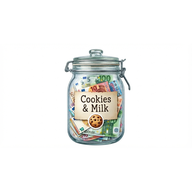
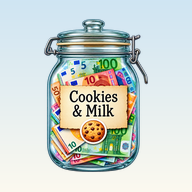
Add files via upload

diff --git a/index.html b/index.html
@@ -20,7 +20,7 @@ html,body{height:100%;margin:0}*{box-sizing:border-box}
 body{background:var(--bg);color:var(--ink);font-family:system-ui,-apple-system,"Segoe UI",Roboto,sans-serif;display:flex;justify-content:center}
 .app{width:100%;max-width:430px;height:100%;display:flex;flex-direction:column;position:relative;overflow:hidden}
 header{display:flex;align-items:center;gap:10px;padding:10px 14px}
-header img{width:40px;height:40px;border-radius:12px;cursor:pointer}
+header img{width:auto;height:44px;cursor:pointer;filter:drop-shadow(0 2px 3px #0002)}
 header b{font-size:19px;font-weight:800}
 main{flex:1;overflow-y:auto;padding:6px 18px 130px}
 h1{font-size:26px;margin:6px 0 14px;font-weight:800}
@@ -130,8 +130,68 @@ textarea{width:100%;min-height:130px;font:500 13px ui-monospace,Menlo,monospace;
 .fl{display:block;margin-top:8px;font-size:14px}.sm{font-size:12px;opacity:.7;margin:6px 2px}
 .cols{display:flex;flex-wrap:wrap;gap:6px;margin:6px 0}.cols span{background:var(--sky);border-radius:10px;padding:5px 9px;font-size:12px;font-weight:700}
 .sec{background:var(--sky);color:var(--ink)}
-</style></head><body><div class="app">
-<header><button class="gear" id="gear" aria-label="Ajustes">⚙<span class="sync" id="sync" data-s="loading"></span></button><img id="logo" src="icon-192.png" alt="Cookies & Milk"><b>Cookies & Milk 💰</b></header>
+
+
+#splash{position:fixed;inset:0;z-index:6000;display:flex;flex-direction:column;align-items:center;justify-content:center;background:linear-gradient(#CFE5F3,#FCF9EF 78%);transition:opacity .45s;overflow:hidden;cursor:pointer}
+#splash.out{opacity:0;pointer-events:none}
+#splash svg{width:min(100vw,520px);height:auto;overflow:visible;animation:sppop .6s cubic-bezier(.2,1.4,.4,1) both}
+#splash .t{font:800 26px system-ui,sans-serif;color:#3C4B58;margin-top:4px;animation:spin .8s .3s both}
+#splash small{font:600 12px system-ui,sans-serif;color:#6b7c88;margin-top:6px;opacity:.7}
+@keyframes sppop{from{opacity:0;transform:scale(.85)}to{opacity:1;transform:none}}
+@keyframes spin{from{opacity:0;transform:translateY(8px)}to{opacity:1;transform:none}}
+#splash svg *{animation-duration:6.6s;animation-timing-function:ease-in-out;animation-fill-mode:both;animation-iteration-count:1}
+.lidc{animation-name:lidc}
+@keyframes lidc{0%,8%{transform:translate(0,0) rotate(0)}20%{transform:translate(0,-260px) rotate(0)}34%{transform:translate(-330px,-340px) rotate(-14deg)}50%{transform:translate(-330px,-350px) rotate(-17deg)}64%{transform:translate(-330px,-340px) rotate(-14deg)}76%{transform:translate(-90px,-300px) rotate(-5deg)}82%{transform:translate(0,-70px) rotate(0)}85%{transform:translate(0,0) rotate(0)}87%{transform:translate(0,6px)}89%,100%{transform:translate(0,0)}}
+.lha{animation-name:lha}
+@keyframes lha{0%{transform:translate(0,1800px)}8%,84%{transform:translate(0,0)}96%,100%{transform:translate(0,1800px)}}
+.lfist{animation-name:lfist}.lopen{animation-name:lopen}
+@keyframes lfist{0%,84.9%{opacity:1}85%,100%{opacity:0}}
+@keyframes lopen{0%,84.9%{opacity:0}85%,100%{opacity:1}}
+.rh{animation-name:rh;transform:translate(1619px,1959px) rotate(-22deg)}
+@keyframes rh{0%{transform:translate(1619px,1959px) rotate(-22deg)}8%{transform:translate(944px,290px) rotate(-22deg)}20%{transform:translate(944px,30px) rotate(-22deg)}25%{transform:translate(1130px,-70px) rotate(-35deg)}35%{transform:translate(694px,-170px) rotate(215deg)}44%,46%{transform:translate(694px,232px) rotate(215deg)}58%{transform:translate(694px,-328px) rotate(215deg)}61%{transform:translate(694px,-343px) rotate(215deg)}64%{transform:translate(694px,-328px) rotate(215deg)}80%,100%{transform:translate(1594px,-2328px) rotate(215deg)}}
+.rfist{animation-name:rfist}.ropen{animation-name:ropen}
+@keyframes rfist{0%,21.9%{opacity:1}22%,44.9%{opacity:0}45%,100%{opacity:1}}
+@keyframes ropen{0%,21.9%{opacity:0}22%,44.9%{opacity:1}45%,100%{opacity:0}}
+.bill{animation-name:bill}
+@keyframes bill{0%,46%{transform:translate(0,0)}58%{transform:translate(0,-560px)}61%{transform:translate(0,-575px)}64%{transform:translate(0,-560px)}80%,100%{transform:translate(900px,-2560px)}}
+.spk{animation-name:spk;transform:scale(0)}
+@keyframes spk{0%,86%{transform:scale(0) rotate(0)}91%{transform:scale(1) rotate(40deg)}97%,100%{transform:scale(0) rotate(90deg)}}
+@media (prefers-reduced-motion:reduce){#splash svg *{animation:none!important}}
+
+.yb{width:100%;margin-top:10px;border:0;border-radius:16px;background:var(--sun,#FFE49A);color:var(--ink);font:700 15px system-ui;padding:12px;cursor:pointer}
+@keyframes slR{from{transform:translateX(38px);opacity:.2}to{transform:none;opacity:1}}@keyframes slL{from{transform:translateX(-38px);opacity:.2}to{transform:none;opacity:1}}
+</style></head><body><div id="splash" aria-label="Cargando Cookies &amp; Milk"><svg viewBox="-140 -640 1534 1894" xmlns="http://www.w3.org/2000/svg" role="img">
+<defs>
+<linearGradient id="skin" x1="0" y1="0" x2="1" y2="1"><stop offset="0" stop-color="#FFE0C4"/><stop offset="1" stop-color="#F7B994"/></linearGradient>
+<linearGradient id="slv" x1="0" y1="0" x2="1" y2="0"><stop offset="0" stop-color="#B5D8EE"/><stop offset="1" stop-color="#7FB1D3"/></linearGradient>
+<linearGradient id="bg" x1="0" y1="0" x2="1" y2="1"><stop offset="0" stop-color="#C8EBB9"/><stop offset="1" stop-color="#86C98A"/></linearGradient>
+<clipPath id="slot"><rect x="-1000" y="-3000" width="4000" height="3345"/></clipPath>
+<g id="HO"><g stroke-linecap="round" fill="none"><path d="M-72 -40 Q-130 -70 -140 -140" stroke="#E39A74" stroke-width="62"/><path d="M-72 -40 Q-130 -70 -140 -140" stroke="url(#skin)" stroke-width="50"/><path d="M-66 -120 L-74 -215" stroke="#E39A74" stroke-width="54"/><path d="M-22 -120 L-24 -242" stroke="#E39A74" stroke-width="54"/><path d="M22 -120 L26 -232" stroke="#E39A74" stroke-width="54"/><path d="M66 -120 L76 -206" stroke="#E39A74" stroke-width="54"/><path d="M-66 -120 L-74 -215" stroke="url(#skin)" stroke-width="42"/><path d="M-22 -120 L-24 -242" stroke="url(#skin)" stroke-width="42"/><path d="M22 -120 L26 -232" stroke="url(#skin)" stroke-width="42"/><path d="M66 -120 L76 -206" stroke="url(#skin)" stroke-width="42"/></g><rect x="-92" y="-195" width="184" height="222" rx="72" fill="url(#skin)" stroke="#E39A74" stroke-width="6"/><ellipse cx="-34" cy="-130" rx="30" ry="46" fill="#fff" opacity=".28"/><ellipse cx="-66" cy="-232" rx="9" ry="16" fill="#fff" opacity=".4"/><ellipse cx="-22" cy="-250" rx="9" ry="16" fill="#fff" opacity=".4"/><rect x="-80" y="18" width="160" height="2000" fill="url(#slv)"/><path d="M-50 100 L-50 2000 M26 100 L26 2000" stroke="#fff" stroke-opacity=".18" stroke-width="12"/><rect x="-92" y="-4" width="184" height="66" rx="24" fill="#FFF3D6" stroke="#E5D3A0" stroke-width="5"/></g><g id="HF"><rect x="-94" y="-218" width="188" height="246" rx="80" fill="url(#skin)" stroke="#E39A74" stroke-width="6"/><g stroke="#E39A74" stroke-width="6" stroke-linecap="round" fill="none"><path d="M-47 -205 L-47 -140"/><path d="M0 -212 L0 -138"/><path d="M47 -205 L47 -140"/></g><ellipse cx="-68" cy="-182" rx="12" ry="18" fill="#fff" opacity=".38"/><ellipse cx="-22" cy="-190" rx="12" ry="18" fill="#fff" opacity=".38"/><ellipse cx="26" cy="-190" rx="12" ry="18" fill="#fff" opacity=".3"/><path d="M-76 -62 Q-30 -125 38 -108" fill="none" stroke="#E39A74" stroke-width="62" stroke-linecap="round"/><path d="M-76 -62 Q-30 -125 38 -108" fill="none" stroke="url(#skin)" stroke-width="50" stroke-linecap="round"/><ellipse cx="-30" cy="-98" rx="14" ry="8" fill="#fff" opacity=".4"/><rect x="-80" y="18" width="160" height="2000" fill="url(#slv)"/><path d="M-50 100 L-50 2000 M26 100 L26 2000" stroke="#fff" stroke-opacity=".18" stroke-width="12"/><rect x="-92" y="-4" width="184" height="66" rx="24" fill="#FFF3D6" stroke="#E5D3A0" stroke-width="5"/></g>
+
+</defs>
+<ellipse cx="627" cy="1235" rx="330" ry="34" fill="#3C4B58" opacity=".12"/>
+<image href="jar-body.webp" x="0" y="0" width="1254" height="1254"/>
+<g clip-path="url(#slot)"><g class="bill">
+ <rect x="530" y="345" width="190" height="400" rx="14" fill="url(#bg)" stroke="#5FA867" stroke-width="7"/>
+ <rect x="546" y="361" width="158" height="368" rx="8" fill="none" stroke="#fff" stroke-opacity=".7" stroke-width="4"/>
+ <circle cx="625" cy="470" r="46" fill="#fff" fill-opacity=".55" stroke="#5FA867" stroke-width="5"/>
+ <text x="625" y="488" text-anchor="middle" font-family="system-ui,sans-serif" font-weight="800" font-size="56" fill="#3F8A4C">€</text>
+ <text x="625" y="620" text-anchor="middle" font-family="system-ui,sans-serif" font-weight="800" font-size="76" fill="#3F8A4C">20</text>
+ <path d="M560 680 H690 M560 700 H690" stroke="#5FA867" stroke-width="6" stroke-linecap="round"/>
+</g></g>
+<g transform="translate(625 112)"><g class="lidc"><g transform="translate(-625 -112)">
+ <image href="jar-lid.webp" x="322" y="0" width="606" height="224"/>
+ <g transform="translate(310 290) rotate(22)"><g class="lha"><g class="lfist"><use href="#HF"/></g><g class="lopen"><use href="#HO"/></g></g></g>
+</g></g></g>
+<g class="rh"><g transform="scale(-1 1)"><g class="rfist"><use href="#HF"/></g><g class="ropen"><use href="#HO"/></g></g></g>
+<g transform="translate(300 360)"><path class="spk" style="animation-delay:0s" d="M0 -46 Q7 -7 46 0 Q7 7 0 46 Q-7 7 -46 0 Q-7 -7 0 -46Z" fill="#FFD84D" stroke="#fff" stroke-width="5"/></g>
+<g transform="translate(960 300) scale(.7)"><path class="spk" style="animation-delay:.12s" d="M0 -46 Q7 -7 46 0 Q7 7 0 46 Q-7 7 -46 0 Q-7 -7 0 -46Z" fill="#FFD84D" stroke="#fff" stroke-width="5"/></g>
+<g transform="translate(1010 760) scale(.55)"><path class="spk" style="animation-delay:.2s" d="M0 -46 Q7 -7 46 0 Q7 7 0 46 Q-7 7 -46 0 Q-7 -7 0 -46Z" fill="#FFD84D" stroke="#fff" stroke-width="5"/></g>
+<g transform="translate(260 800) scale(.5)"><path class="spk" style="animation-delay:.08s" d="M0 -46 Q7 -7 46 0 Q7 7 0 46 Q-7 7 -46 0 Q-7 -7 0 -46Z" fill="#FFD84D" stroke="#fff" stroke-width="5"/></g>
+</svg><div class="t">Cookies &amp; Milk 💰</div><small>Toca para saltar</small></div>
+<script>(function(){var sp=document.getElementById('splash');if(!sp)return;var g=0;function hide(){if(g)return;g=1;sp.classList.add('out');setTimeout(function(){sp.remove()},500)}
+sp.addEventListener('click',hide);var l=sp.querySelector('.lidc');l&&l.addEventListener('animationend',function(){setTimeout(hide,800)});setTimeout(hide,8600);if(window.matchMedia&&matchMedia('(prefers-reduced-motion:reduce)').matches)setTimeout(hide,900)})();</script><div class="app">
+<header><button class="gear" id="gear" aria-label="Ajustes">⚙<span class="sync" id="sync" data-s="loading"></span></button><img id="logo" src="jar-sm.png" alt="Cookies & Milk"><b>Cookies & Milk 💰</b></header>
 <main id="main"></main>
 <nav id="nav"></nav>
 <div class="sheet" id="sheet"><div>
@@ -140,7 +200,7 @@ textarea{width:100%;min-height:130px;font:500 13px ui-monospace,Menlo,monospace;
 <button data-k="viajes" style="background:#63B5C6">✈ Viajes</button></div></div>
 <div class="flow" id="flow"><div class="flagbg" id="fbg"></div><div class="ov" id="fov"></div><div class="fw" id="fw"></div></div><div class="toast" id="toast"></div>
 <div class="flow" id="setov"><div class="fw" id="setw"></div></div>
-<div class="login" id="login"><form id="lf"><img src="icon-192.png" alt=""><h2>Cookies &amp; Milk 💰</h2><input id="lem" type="email" name="email" autocomplete="username" placeholder="Correo electrónico" required><input id="lpw" type="password" name="password" autocomplete="current-password" placeholder="Contraseña" required><div class="err" id="lerr"></div><button class="save" type="submit" id="lbtn">ENTRAR</button></form></div>
+<div class="login" id="login"><form id="lf"><img src="jar-sm.png" alt=""><h2>Cookies &amp; Milk 💰</h2><input id="lem" type="email" name="email" autocomplete="username" placeholder="Correo electrónico" required><input id="lpw" type="password" name="password" autocomplete="current-password" placeholder="Contraseña" required><div class="err" id="lerr"></div><button class="save" type="submit" id="lbtn">ENTRAR</button></form></div>
 </div>
 <script>
 const $=s=>document.querySelector(s);
@@ -208,8 +268,8 @@ function accDash(a,y,emb){const col=a==='Naranja'?COL.N:COL.R,tot=accT(a,y),ms=A
  donut(cs.map((c,i)=>({n:c.e+' '+c.n,sh:ct?Math.round(c.v/ct*100)+'% del total':'',v:c.v,c:PAL[i],b:c.n==='Viajes'?'<small class="bd" style="opacity:.5">—</small>':badge(yAvg(a,c.n,y),hAvg(a,c.n)),attr:`data-p="cat" data-acc="${a}" data-y="${y}" data-c="${c.n}"`})))+
  `<h3>Media histórica</h3><div class="st"><div><small>Media mensual</small><b>${fmt0(av)}</b></div><div><small>Mes más caro</small><b>${fmt0(hv[imx])}</b><small>${lb(past[imx])}</small></div><div><small>Mes más barato</small><b>${fmt0(hv[imn])}</b><small>${lb(past[imn])}</small></div></div><h3>Tendencia</h3>`+trend(vals,av,col,lb(all[0]),lb(all[all.length-1]))+
  `<h3>Balance de ${y}</h3><div class="det"><div><small>Ingresos (fijos + extra)</small><b>${fmt0(inc)}</b></div><div><small>Gastos</small><b>${fmt0(tot)}</b></div><div><small>Balance</small>${balC(inc-tot)}</div></div><h3>Últimos gastos</h3>`+list([...cas(a,y),...trp(a,y)],10)}
-function accMonth(a,y,mo){const g=accT(a,y,mo),ex=exs(a,y,mo),xt=sum(ex),inc=INC[a]+xt,cs=cats(a,y,mo);
- return `<h1>${a==='Naranja'?'🟠':'⚫'} ${a} · ${months[mo-1]} ${y}</h1><div class="st"><div><small>Gastos del mes</small><b>${fmt0(g)}</b></div><div><small>Ingresos mensuales</small><b>${fmt0(INC[a])}</b></div><button data-xa="${a}" data-y="${y}" data-mo="${mo}"><small>Ingresos extra ＋</small><b>${fmt0(xt)}</b></button></div><div class="det" style="margin-top:8px"><div><small>Balance del mes</small>${balC(inc-g)}</div></div>`+
+function accMonth(a,y,mo,sh){const g=accT(a,y,mo),ex=exs(a,y,mo),xt=sum(ex),inc=INC[a]+xt,cs=cats(a,y,mo);
+ return `<h1>${a==='Naranja'?'🟠':'⚫'} ${sh?'Gastos '+a:a+' · '+months[mo-1]+' '+y}</h1><div class="st"><div><small>Gastos del mes</small><b>${fmt0(g)}</b></div><div><small>Ingresos mensuales</small><b>${fmt0(INC[a])}</b></div><button data-xa="${a}" data-y="${y}" data-mo="${mo}"><small>Ingresos extra ＋</small><b>${fmt0(xt)}</b></button></div><div class="det" style="margin-top:8px"><div><small>Balance del mes</small>${balC(inc-g)}</div></div>`+
  (ex.length?`<h3>Ingresos extra</h3>`+ex.map(x=>`<div class="ex" style="cursor:default"><span class="ec">${x.obs||'Ingreso extra'}</span><b>${fmt(x.amt)}</b></div>`).join(''):'')+
  `<h3>Categorías</h3><p class="hint">% frente a ${months[mo-1]} de ${y-1}</p>`+donut(cs.map((c,i)=>({n:c.e+' '+c.n,v:c.v,c:PAL[i],b:c.n==='Viajes'?'<small class="bd" style="opacity:.5">—</small>':badge(c.v,cm(a,c.n,y-1,mo)),attr:`data-p="cat" data-acc="${a}" data-y="${y}" data-c="${c.n}"`})))+`<h3>Gastos del mes</h3>`+list([...cas(a,y,mo),...trp(a,y,mo)])}
 function catScr(a,y,c){const x=c==='Viajes'?trp(a,y):cas(a,y).filter(e=>e.cat===c);
@@ -270,24 +330,28 @@ function viaMonth(y,mo){const x=trp(null,y,mo),ids=[...new Set(x.map(e=>e.trip))
 function tripScr(id){const t=trips.find(t=>t.id===id),x=E.filter(e=>e.trip===id);
  return `<h1 style="display:flex;align-items:center;gap:10px">${fl(t.iso)}${t.place}</h1><p class="hint" style="margin-top:-6px">${rng(t)} ${t.from.slice(0,4)} · ${t.country}</p><div class="st"><div><small>Total del viaje</small><b>${fmt0(sum(x))}</b></div><div style="grid-column:span 2"><small>Repercute en Casa</small><b>${fmt0(sum(x.filter(e=>e.to==='Naranja'||e.to==='Revolut')))}</b></div></div><h3>Por categoría</h3>`+donut(tcats(x))+`<h3>¿De dónde salió el dinero?</h3>`+donut([['🟠 Naranja',COL.N],['⚫ Revolut',COL.R],['👩 Alba','#E9A0A0'],['👨 David','#8FBEDC']].map(([n,c])=>({n,c,v:sum(x.filter(e=>e.to===n.slice(3)))})))+`<h3>Gastos del viaje</h3>`+x.sort((a,b)=>key(a).localeCompare(key(b))).map(row).join('')}
 const tot=()=>{const{y,m}=HM,n=accT('Naranja',y,m),r=accT('Revolut',y,m);return{n,r,v:sum(trp(null,y,m)),casa:n+r}};
+const AVM={1:'m',3:'m'};
+function mhead(yb){const cur=HM.y===NY&&HM.m===NM;
+ return `<div class="mh"><button data-hm="-1" aria-label="Mes anterior">‹</button><button class="mt" data-hm="open">${months[HM.m-1]} ${HM.y} ▾</button><button data-hm="1" aria-label="Mes siguiente">›</button></div>${cur?'':'<button class="cur" data-hm="now">Volver al mes actual</button>'}`+(HM.open?`<div class="mp"><div class="ys"><button data-hm="py-">‹</button><b>${HM.py}</b><button data-hm="py+">›</button></div><div class="mg">${MN.map((n,i)=>`<button class="${HM.py===HM.y&&i+1===HM.m?'on':''}" data-hm="pick" data-mo="${i+1}">${n}</button>`).join('')}</div>${yb?'<button class="yb" data-av="y">📅 Ver el año completo</button>':''}</div>`:'')}
 function home(m){const T=tot(),cur=HM.y===NY&&HM.m===NM;
  m.innerHTML=banner()+`<div class="mh"><button data-hm="-1" aria-label="Mes anterior">‹</button><button class="mt" data-hm="open">${months[HM.m-1]} ${HM.y} ▾</button><button data-hm="1" aria-label="Mes siguiente">›</button></div>${cur?'':'<button class="cur" data-hm="now">Volver al mes actual</button>'}`+(HM.open?`<div class="mp"><div class="ys"><button data-hm="py-">‹</button><b>${HM.py}</b><button data-hm="py+">›</button></div><div class="mg">${MN.map((n,i)=>`<button class="${HM.py===HM.y&&i+1===HM.m?'on':''}" data-hm="pick" data-mo="${i+1}">${n}</button>`).join('')}</div></div>`:'')+
  `<div class="total"><span>Total Casa</span><b>${fmt(T.casa)}</b></div>`+posTile('Naranja','#FF8A2B','var(--orbg)',1,fmt(T.n))+posTile('Revolut','#212327','var(--sky)',3,fmt(T.r))+`<div class="tile travel" data-go="4"><div><h2>Viajes</h2>${fmt(T.v)}</div><canvas id="g1" width="340" height="340" style="width:170px;height:170px"></canvas></div>`;
  start($('#g1'))}
 function render(){raf.forEach(cancelAnimationFrame);raf=[];const m=$('#main');
  if(tab===0)home(m);else{const s=topS();let h;
-  switch(s.n){case 'accyear':h=accDash(s.acc,s.y,1);break;case 'viayear':h=viaMain(s.y,1);break;case 'month':h=resMonth(s.y,s.mo);break;case 'accmonth':h=accMonth(s.acc,s.y,s.mo);break;case 'cat':h=catScr(s.acc,s.y,s.cat);break;case 'viamonth':h=viaMonth(s.y,s.mo);break;case 'trip':h=tripScr(s.id);break;default:h=tab===5?resMain(YR[5]):tab===4?viaMain(YR[4]):accDash(ACC[tab],YR[tab])}
+  switch(s.n){case 'accyear':h=accDash(s.acc,s.y,1);break;case 'viayear':h=viaMain(s.y,1);break;case 'month':h=resMonth(s.y,s.mo);break;case 'accmonth':h=accMonth(s.acc,s.y,s.mo);break;case 'cat':h=catScr(s.acc,s.y,s.cat);break;case 'viamonth':h=viaMonth(s.y,s.mo);break;case 'trip':h=tripScr(s.id);break;default:h=tab===5?resMain(YR[5]):tab===4?viaMain(YR[4]):AVM[tab]==='m'?mhead(1)+accMonth(ACC[tab],HM.y,HM.m,1):'<button class="bk" data-av="m">‹ Ver por meses</button>'+accDash(ACC[tab],YR[tab])}
   m.innerHTML=(ST[tab].length?'<button class="bk" data-bk>‹ Atrás</button>':'')+h;m.scrollTop=0;if($('#wm')||$('#lm'))initMap()}
  $('#nav').innerHTML=NAV.map(x=>x?`<button data-t="${x[0]}" class="${x[0]===tab?'on':''}"><span class="ic">${ICONS[x[0]===5?0:x[0]]}</span>${x[1]}</button>`:`<div class="gap"><button class="fab" id="fab" aria-label="Añadir gasto">${PLUS}</button></div>`).join('');
- $('#nav').querySelectorAll('button[data-t]').forEach(b=>b.onclick=()=>{const t=+b.dataset.t;if(t===tab)ST[t]=[];tab=t;render()});
+ $('#nav').querySelectorAll('button[data-t]').forEach(b=>b.onclick=()=>{const t=+b.dataset.t;if(t===tab)ST[t]=[];tab=t;HM.open=false;render()});
  $('#fab').onclick=()=>CAN?$('#sheet').classList.add('show'):toast('Solo lectura')}
 function tap(t){if(t.classList.contains('go'))return;const i=+t.dataset.go;
- const nav=()=>{YR[i]=HM.y;ST[i]=i===4?[{n:'viamonth',y:HM.y,mo:HM.m}]:[{n:'accmonth',acc:ACC[i],y:HM.y,mo:HM.m}];tab=i;render()};
+ const nav=()=>{YR[i]=HM.y;if(AVM[i])AVM[i]='m';HM.open=false;ST[i]=i===4?[{n:'viamonth',y:HM.y,mo:HM.m}]:[];tab=i;render()};
  if(!t.querySelector('.pos'))return nav();
  const s=t.querySelector('.scr');if(navigator.vibrate)navigator.vibrate(15);t.classList.add('go');
  setTimeout(()=>{s.textContent='✓ Aceptado';s.classList.add('ok')},560);setTimeout(nav,1250)}
-$('#main').onclick=e=>{const t=e.target.closest('[data-hm],[data-yr],[data-p],[data-bk],[data-ex],[data-go],[data-xa],[data-seg],[data-demo]');if(!t)return;const d=t.dataset;
+$('#main').onclick=e=>{const t=e.target.closest('[data-hm],[data-yr],[data-p],[data-bk],[data-ex],[data-go],[data-xa],[data-seg],[data-demo],[data-av]');if(!t)return;const d=t.dataset;
  if(d.hm){const v=d.hm;if(v==='-1'||v==='1'){let m=HM.m+ +v,y=HM.y;if(m<1){m=12;y--}if(m>12){m=1;y++}HM.m=m;HM.y=y}else if(v==='open'){HM.open=!HM.open;HM.py=HM.y}else if(v==='now'){HM={y:NY,m:NM,open:false,py:NY}}else if(v==='py-')HM.py--;else if(v==='py+')HM.py++;else if(v==='pick'){HM.y=HM.py;HM.m=+d.mo;HM.open=false}render()}
+ else if(d.av){AVM[tab]=d.av==='m'?'m':'y';HM.open=false;ST[tab]=[];if(d.av!=='m')YR[tab]=HM.y;render()}
  else if(d.go!==undefined)tap(t);
  else if(d.yr){YR[tab]+=+d.yr;render()}
  else if(d.bk!==undefined){ST[tab].pop();render()}
@@ -296,6 +360,17 @@ $('#main').onclick=e=>{const t=e.target.closest('[data-hm],[data-yr],[data-p],[d
  else if(d.xa)openExtra(d.xa,+d.y,+d.mo);
  else if(d.seg!==undefined)segSel(t);
  else if(d.demo){DEMO=d.demo==='on';applyData();refresh()}};
+// deslizar entre pantallas
+(function(){const ORD=[0,5,1,3,4];let x0,y0,t0,ok=false;const mn=document.getElementById('main');
+ const blocked=el=>{if(el.closest('.leaflet-container,input,textarea,select,.mp'))return true;
+  for(let n=el;n&&n!==mn;n=n.parentElement){if(n.scrollWidth>n.clientWidth+4&&/(auto|scroll)/.test(getComputedStyle(n).overflowX))return true}
+  return !!document.querySelector('.flow.show,.sheet.show,.login.show,#splash');};
+ mn.addEventListener('touchstart',e=>{if(e.touches.length!==1){ok=false;return}const t=e.touches[0];x0=t.clientX;y0=t.clientY;t0=Date.now();ok=!blocked(e.target)},{passive:true});
+ mn.addEventListener('touchend',e=>{if(!ok)return;ok=false;const t=e.changedTouches[0],dx=t.clientX-x0,dy=t.clientY-y0;
+  if(Math.abs(dx)<70||Math.abs(dx)<Math.abs(dy)*1.6||Date.now()-t0>800)return;
+  const i=ORD.indexOf(tab),j=i+(dx<0?1:-1);if(j<0||j>=ORD.length)return;
+  tab=ORD[j];HM.open=false;render();mn.style.animation='none';void mn.offsetWidth;mn.style.animation=(dx<0?'slR':'slL')+' .28s ease-out'},{passive:true});
+})();
 // globo + avión que orbita
 let raf=[];
 function start(cv){

diff --git a/sw.js b/sw.js
@@ -1,5 +1,5 @@
-const C='cm-v1';
-const A=['./','index.html','manifest.webmanifest','icon-192.png','icon-512.png','apple-touch-icon.png'];
+const C='cm-v2';
+const A=['./','index.html','manifest.webmanifest','icon-192.png','icon-512.png','apple-touch-icon.png','jar-sm.png','jar-body.webp','jar-lid.webp'];
 self.addEventListener('install',e=>{e.waitUntil(caches.open(C).then(c=>c.addAll(A)));self.skipWaiting()});
 self.addEventListener('activate',e=>{e.waitUntil(caches.keys().then(k=>Promise.all(k.filter(x=>x!==C).map(x=>caches.delete(x)))));self.clients.claim()});
 self.addEventListener('fetch',e=>{
